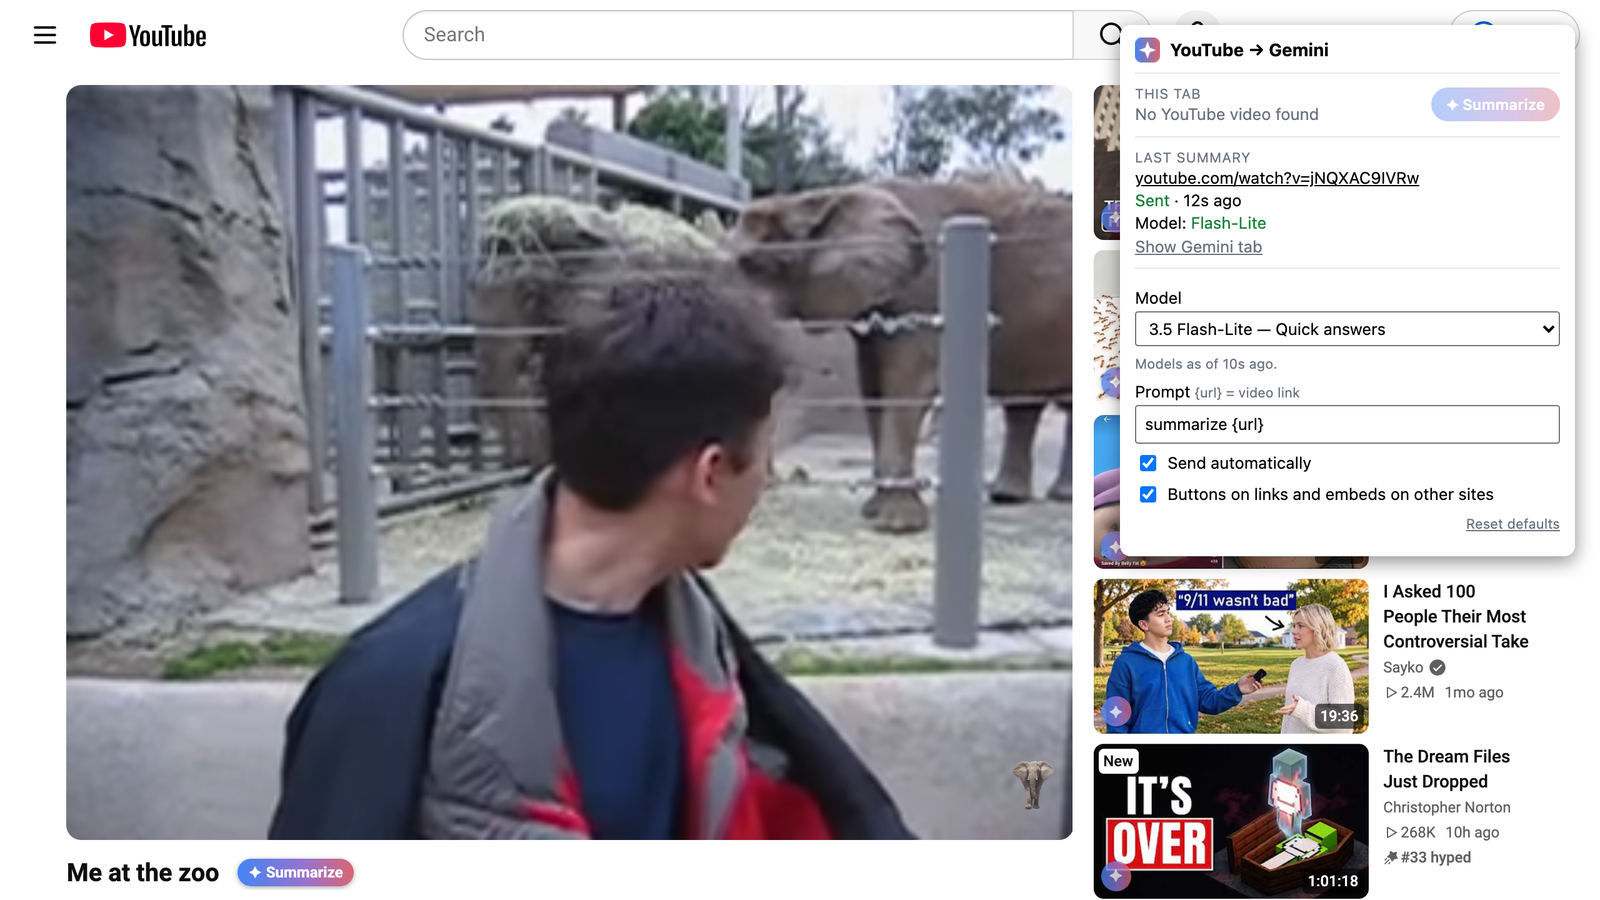
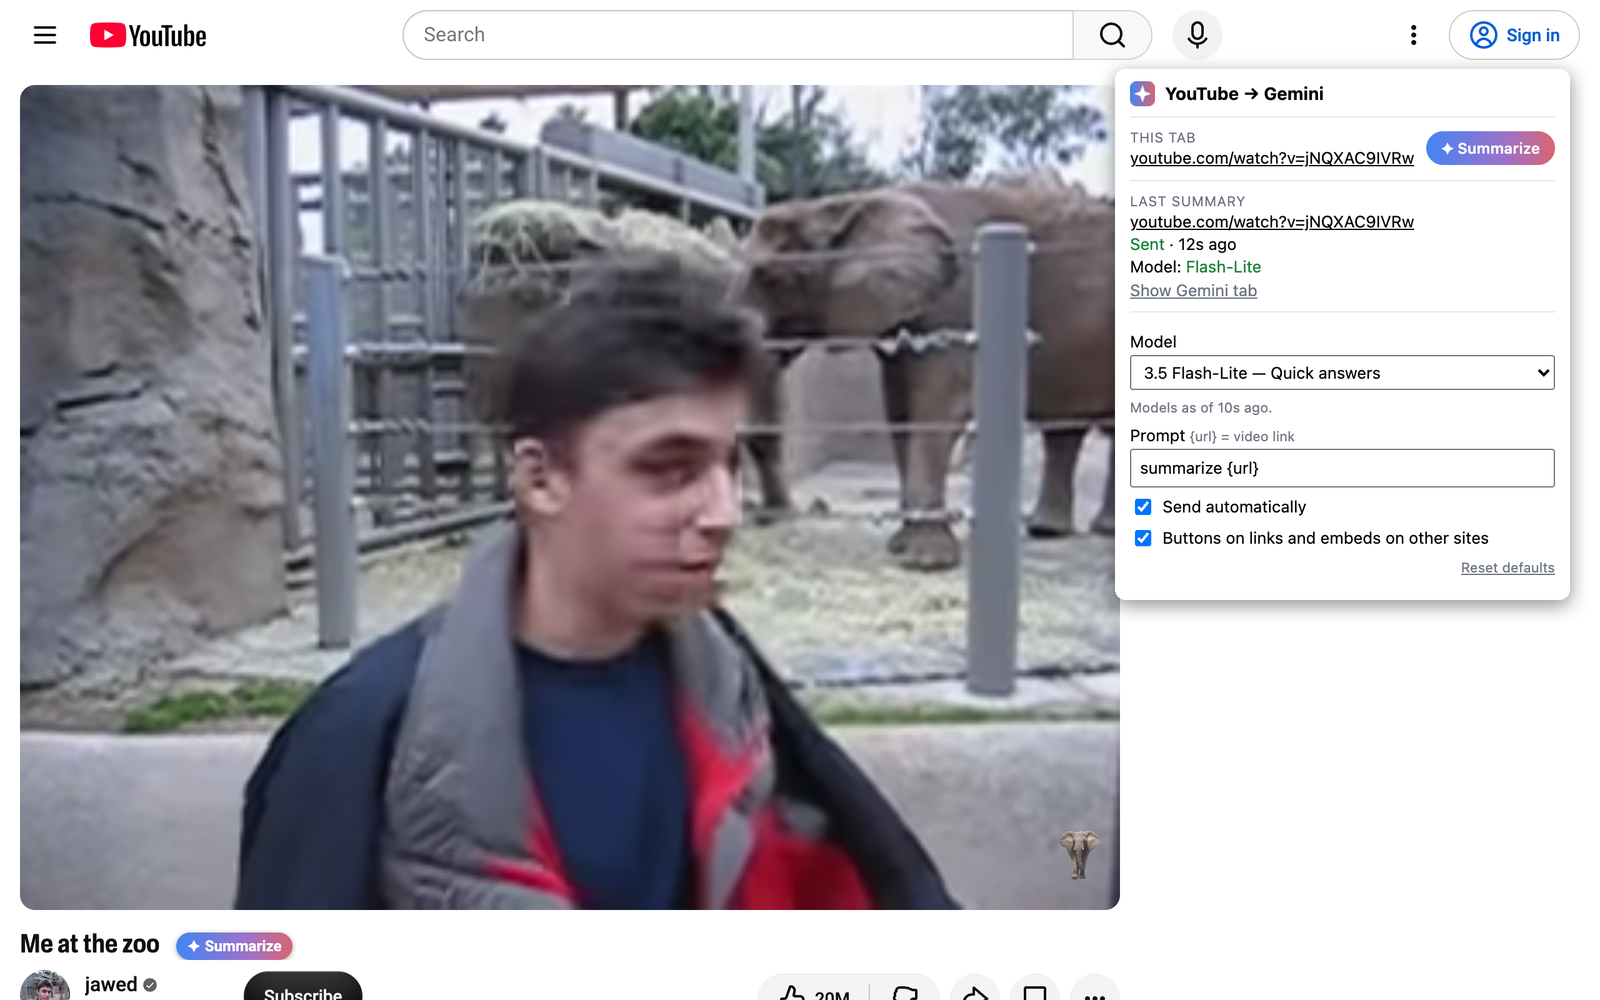
Fix title button alignment/clipping; controlled README screenshot without recommendations
Copilot-Session: e8f7f76f-8b92-48da-9a0b-72c518eb8277

diff --git a/youtube.js b/youtube.js
@@ -1,6 +1,12 @@
 // youtube.com: buttons on the watch page, Shorts, and every video thumbnail in lists/grids/search/sidebars.
 (() => {
-  const { makeButton } = YTSUI;
+  const { makeButton, api } = YTSUI;
+
+  api.runtime.onMessage.addListener((msg, _sender, sendResponse) => {
+    if (msg?.type !== "findVideo") return false;
+    sendResponse(YTS.canonicalUrl(location.href));
+    return false;
+  });
   const THUMB_SEL = 'a[href*="/watch?v="], a[href*="/shorts/"], a[href*="/live/"]';
   const IMG_SEL = "img, yt-image, yt-thumbnail-view-model, ytd-thumbnail, .yt-core-image";
   const COMPACT_MAX_WIDTH = 240;
@@ -60,7 +66,9 @@
   const style = document.createElement("style");
   style.textContent = `
     ytd-watch-metadata #title h1.yts-inline > yt-formatted-string { display: inline; }
-    #yts-page-button.yts-inline { display: inline-block; vertical-align: middle; margin: -4px 0 0 10px; }
+    /* No negative margins: the title clips at its line box (overflow: hidden), so the button must stay
+       inside it; middle alignment grows the line box if the button is taller than the text. */
+    #yts-page-button.yts-inline { display: inline-block; vertical-align: middle; margin: 0 0 0 10px; }
   `;
   document.documentElement.appendChild(style);
 

diff --git a/README.md b/README.md
@@ -4,7 +4,7 @@ A browser extension for Chrome, Brave, Edge and Firefox that adds a **✦ Summar
 Clicking it opens a new Gemini tab, starts a fresh chat and sends
 `summarize https://www.youtube.com/watch?v=<id>` for you.
 
-![Summarize button after a YouTube title, round icons on sidebar thumbnails, and the toolbar popup](docs/screenshot.png)
+![The Summarize button after a YouTube video title, with the toolbar popup open](docs/screenshot.png)
 
 ## Where the button appears
 
@@ -67,7 +67,7 @@ npm test                 # Playwright Chromium end-to-end: YouTube, other sites,
 npm run test:firefox     # Selenium with real Firefox
 npm run lint             # web-ext lint
 npm run build            # dist/*.zip for stores / signing
-node test/screenshots.mjs  # raw shots for docs/screenshot.png
+node test/screenshots.mjs  # raw shots for docs/screenshot.png (recommendations hidden)
 ```
 
 YouTube and Gemini change their pages often; the selectors live in `youtube.js` and `gemini.js`.
